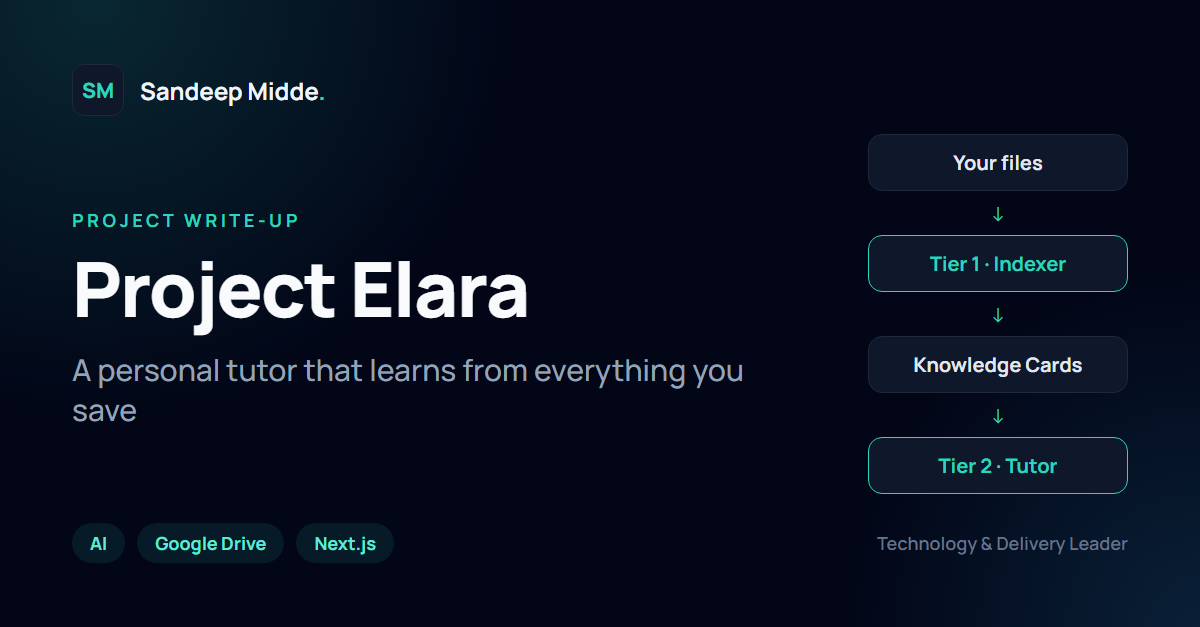
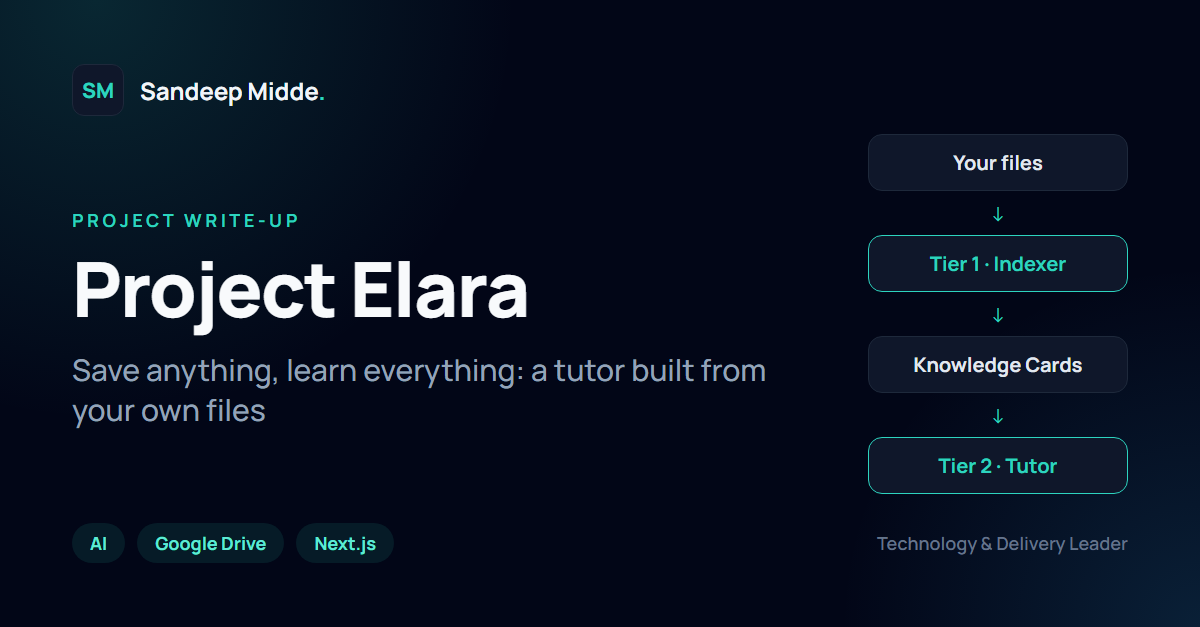
Punchier project titles, calmer typography, tidier post sidebars
- Retitle the three project posts (Krishna Uvaca: Ancient Wisdom,
  Modern Answers / Observer Prime: AI Drafts, You Decide / Project
  Elara: Save Anything, Learn Everything); slugs unchanged. Refresh
  Krishna Uvaca's summary and the cover-card taglines to match.
- Post page: body text back to prose-base (no 2xl upscale), smaller
  title, equal-width side columns (240px, 300px on 2xl).
- Sidebars: titles clamp to two lines with an ellipsis (full title on
  hover), and "More from the blog" no longer shows dates.

Changed region(s): [[0.0617, 0.5758, 0.6475, 0.697]]

diff --git a/post.html b/post.html
@@ -140,7 +140,7 @@
   </header>
 
   <main class="relative z-10 px-6 sm:px-12 lg:px-20 py-20">
-    <div class="grid grid-cols-1 lg:grid-cols-[220px_minmax(0,1fr)_220px] 2xl:grid-cols-[280px_minmax(0,1fr)_280px] gap-12 lg:gap-10 2xl:gap-16 items-start">
+    <div class="grid grid-cols-1 lg:grid-cols-[240px_minmax(0,1fr)_240px] 2xl:grid-cols-[300px_minmax(0,1fr)_300px] gap-12 lg:gap-10 2xl:gap-16 items-start">
       <!-- Static left column: Back to Blog + More from the blog (sticky, stays put while the article scrolls) -->
       <aside class="order-2 lg:order-none lg:sticky lg:top-24">
         <div class="mb-6">
@@ -165,9 +165,9 @@
             <span>·</span>
             <span id="postReadTime"></span>
           </div>
-          <h1 id="postTitle" class="text-3xl sm:text-4xl 2xl:text-5xl font-extrabold text-slate-100 tracking-tight mb-8"></h1>
+          <h1 id="postTitle" class="text-2xl sm:text-3xl 2xl:text-4xl font-extrabold text-slate-100 tracking-tight mb-8"></h1>
 
-          <div id="postBody" class="prose prose-invert prose-sm sm:prose-base 2xl:prose-lg max-w-none text-slate-400 mb-6"></div>
+          <div id="postBody" class="prose prose-invert prose-sm lg:prose-base max-w-none text-slate-400 mb-6"></div>
 
           <div id="postTags" class="flex flex-wrap gap-2 mb-10"></div>
 
@@ -299,9 +299,8 @@
       }
 
       container.innerHTML = others.map(p => `
-        <a href="posts/${encodeURIComponent(p.slug)}/" class="related-card rounded-lg p-3 block">
-          <div class="text-[11px] text-slate-500 mb-1">${formatDate(p.date)}</div>
-          <div class="related-title text-sm font-semibold text-slate-200 transition-colors duration-300">${p.title}</div>
+        <a href="posts/${encodeURIComponent(p.slug)}/" title="${p.title}" class="related-card rounded-lg px-3 py-2 block">
+          <div class="related-title line-clamp-2 text-sm font-semibold text-slate-200 transition-colors duration-300">${p.title}</div>
         </a>
       `).join('');
     }
@@ -328,15 +327,15 @@
         const items = groups[name].sort((a, b) => b.date.localeCompare(a.date));
         const isCurrentTopic = currentTags.includes(name);
         const links = items.map(p => `
-          <a href="posts/${encodeURIComponent(p.slug)}/"
-             class="topic-link block py-1.5 pl-1 text-sm text-slate-400 hover:text-teal-300 transition-colors ${p.slug === currentSlug ? 'active' : ''}">
+          <a href="posts/${encodeURIComponent(p.slug)}/" title="${p.title}"
+             class="topic-link line-clamp-2 py-1.5 pl-1 text-sm text-slate-400 hover:text-teal-300 transition-colors ${p.slug === currentSlug ? 'active' : ''}">
             ${p.title}
           </a>
         `).join('');
         return `
           <details class="topic-group rounded-lg" ${isCurrentTopic ? 'open' : ''}>
             <summary class="px-3 py-2 text-sm font-semibold text-slate-200 rounded-lg flex items-center justify-between gap-2">
-              <span>${name}</span>
+              <span class="truncate">${name}</span>
               <span class="flex items-center gap-2 text-slate-500">
                 <span class="text-xs">${items.length}</span>
                 <svg class="chevron h-3.5 w-3.5" fill="none" viewBox="0 0 24 24" stroke="currentColor" stroke-width="2">

diff --git a/blog/krishna-uvaca/content.md b/blog/krishna-uvaca/content.md
@@ -1,7 +1,7 @@
-# Krishna Uvaca: Building an AI Companion That Answers From the Gita, Not From Imagination
+# Krishna Uvaca: Ancient Wisdom, Modern Answers
 Tags: Projects, AI, Mobile
 Date: 2026-09-23
-Summary: An Android AI companion that answers life's questions from the Bhagavad Gita itself, citing the verses behind every answer.
+Summary: A RAG system built on the Bhagavad Gita. Ask life's questions and get answers that cite the verse they come from.
 
 Krishna Uvaca is an Android companion for the Bhagavad Gita: a calm, AI-guided space where you can bring a real question and get an answer grounded in the Gita's own text, with the verses cited. This post walks through why we built it, how it works, and the engineering decisions behind it.
 

diff --git a/blog/observer-prime/content.md b/blog/observer-prime/content.md
@@ -1,4 +1,4 @@
-# Observer Prime: An AI Workbench Where the Creator Stays the Editor
+# Observer Prime: AI Drafts, You Decide
 Tags: Projects, AI, Content Creation
 Date: 2026-09-23
 Summary: A local-first AI workbench that turns one topic into a complete YouTube video plan, with the creator approving every step.

diff --git a/blog/project-elara/content.md b/blog/project-elara/content.md
@@ -1,4 +1,4 @@
-# Project Elara: A Personal Tutor That Learns From Everything You Save
+# Project Elara: Save Anything, Learn Everything
 Tags: Projects, AI, Learning
 Date: 2026-09-23
 Summary: An AI tutor that reads everything you save to Google Drive and teaches you from it, with no manual tagging or filing.
